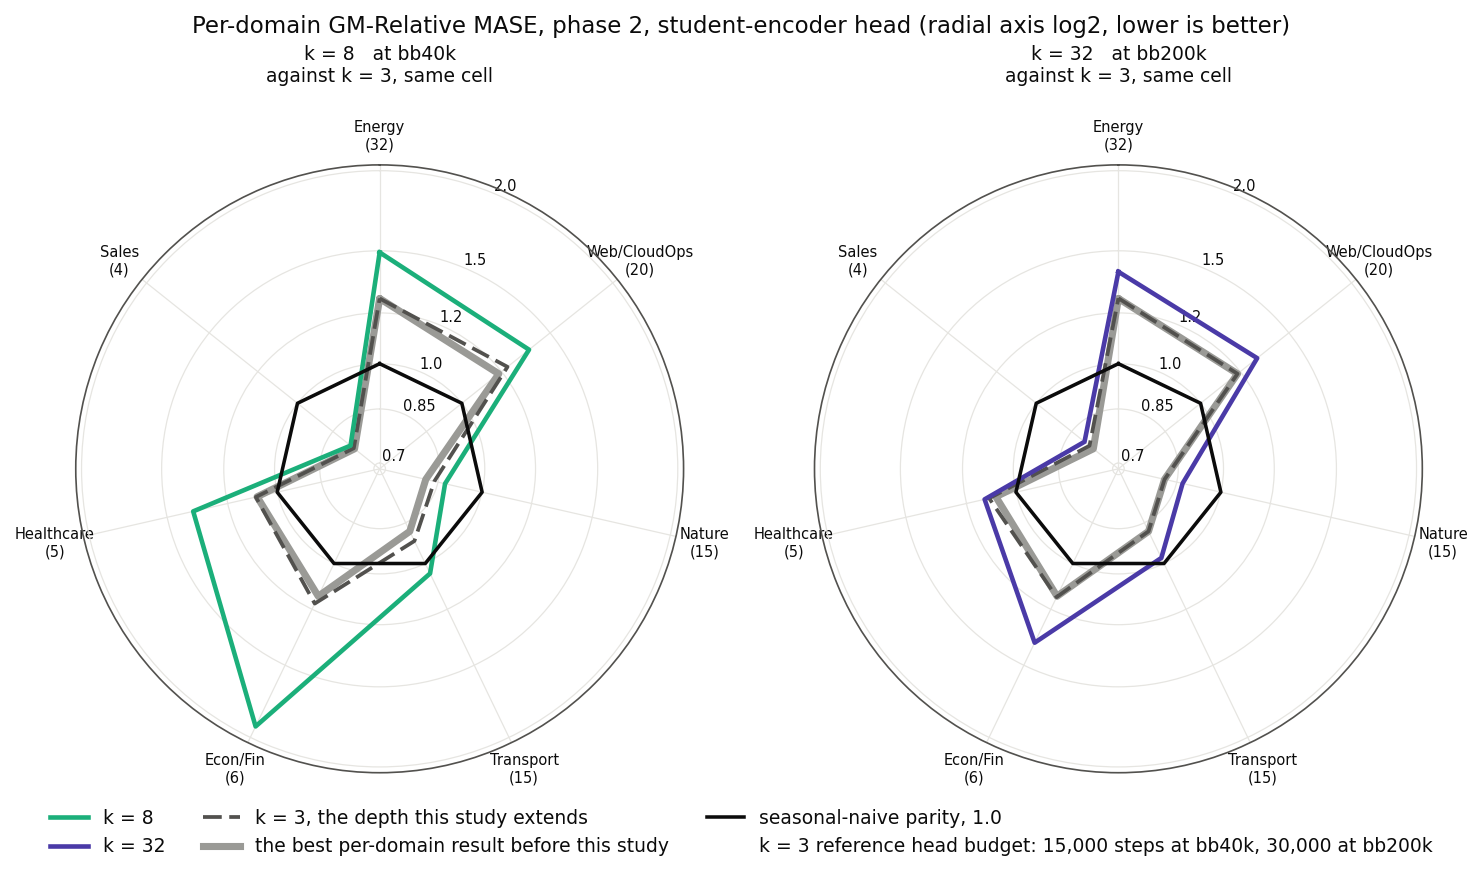
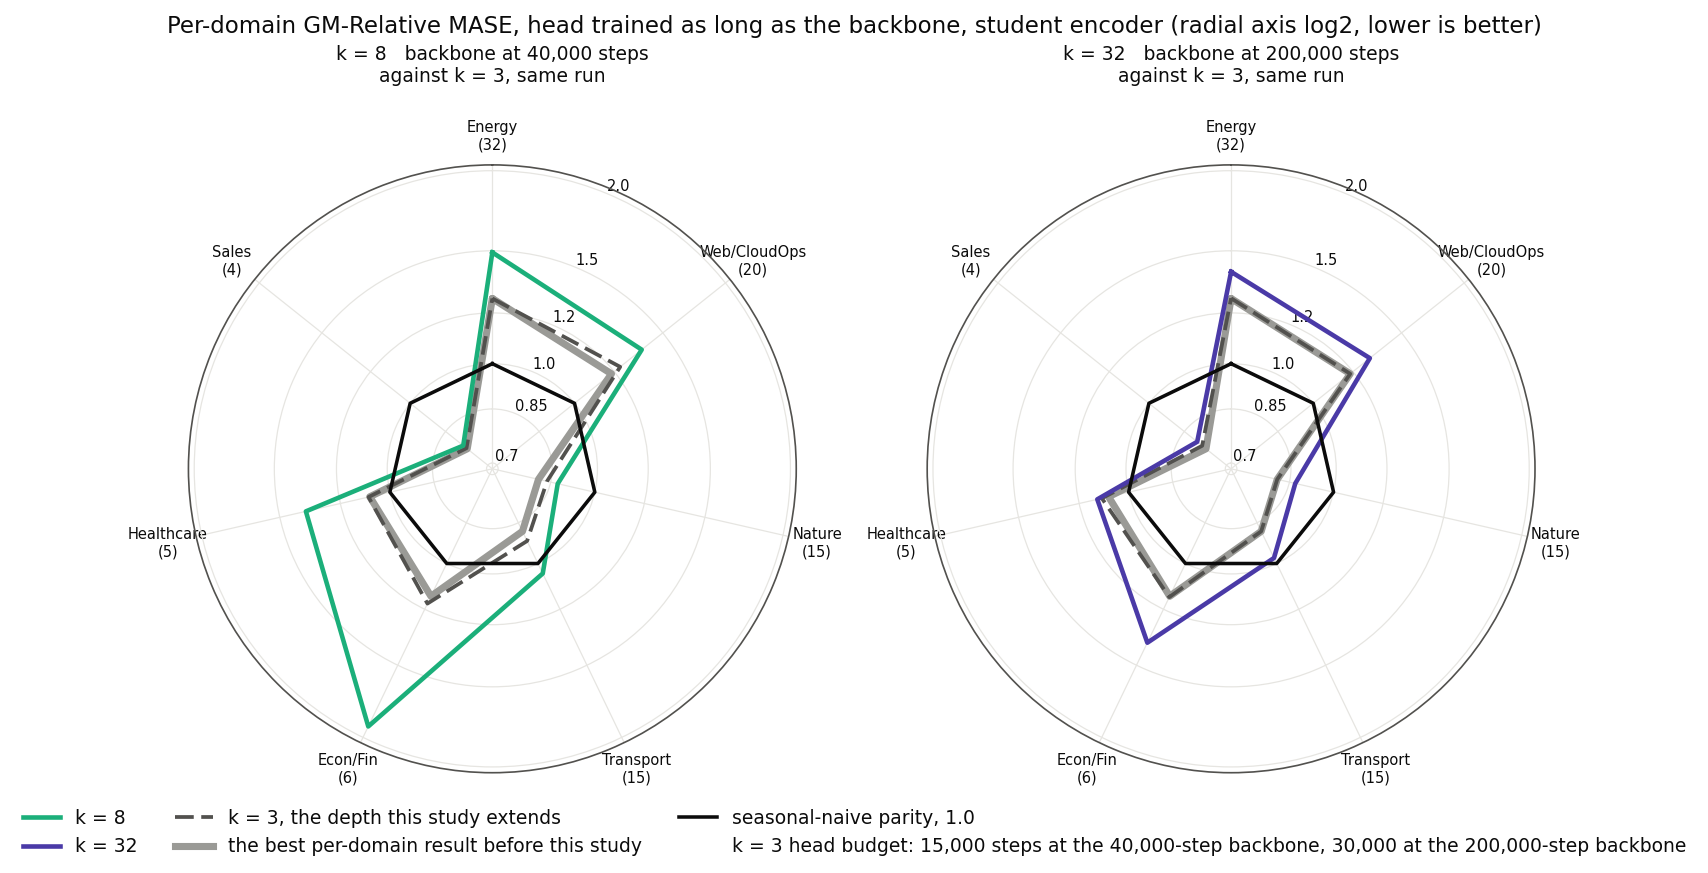
report(#401): the radar says the fact, so no caption translates it
The `Terms` section went, and two captions took its place: they told a reader
that "phase 1" in the figure means the 30,000-step head, and that `bb40k` in
the figure means the 40,000-step backbone. A caption that translates a figure
is the same defect in a smaller box.

The radar titles carry the fact now. A panel reads "k = 8   backbone at 40,000
steps" and the figure reads "30,000-step head" or "head trained as long as the
backbone". The legend drops "ema30k schedule" for "faster EMA ramp", and the
head-budget note names the stops in steps.

The two captions now say what the panels hold, which is the one thing the
titles cannot: the best backbone stop of each depth.

`bb40k` and `bb200k` survive in three lines, all of them file names under
`results/`, where they are the path and not the prose.

754 tests pass and the CI gate exits 0.

Claude-Session: https://claude.ai/code/session_017ZyjWRedGjUN9qyu7EpDpU

diff --git a/reports/2026-08-15_rollout_depth_k16_8_32/scripts/plot_domain_radar.py b/reports/2026-08-15_rollout_depth_k16_8_32/scripts/plot_domain_radar.py
@@ -53,8 +53,8 @@ import depth_colours as D                                 # noqa: E402
 plt.rcParams.update(D.rc())
 
 CELL = "A4"
-REF_HEAD_NOTE = ("k = 3 reference head budget: 15,000 steps at bb40k, "
-                 "30,000 at bb200k")
+REF_HEAD_NOTE = ("k = 3 head budget: 15,000 steps at the 40,000-step "
+                 "backbone, 30,000 at the 200,000-step backbone")
 HEAD = "student"
 
 
@@ -269,9 +269,9 @@ def main(argv=None):
                     [math.log2(mine[d]) for d in domains if d in mine],
                     color=D.colour(k), marker="o", ms=7, lw=0, zorder=4)
 
-        sched = "" if variant == "base" else f", {variant} schedule"
-        ax.set_title(f"{D.label(k)}   at bb{steps_label(stop)}{sched}\n"
-                     f"against k = 3, same cell", fontsize=9, pad=18)
+        sched = "" if variant == "base" else ", faster EMA ramp"
+        ax.set_title(f"{D.label(k)}   backbone at {stop:,} steps{sched}\n"
+                     f"against k = 3, same run", fontsize=9, pad=18)
 
     for idx in range(len(panels), nrow * ncol):
         axes[idx // ncol][idx % ncol].axis("off")
@@ -281,7 +281,7 @@ def main(argv=None):
     handles = [Line2D([], [], color=D.colour(k), lw=2.2,
                       linestyle=(D.STYLE_STUDY if v == "base" else (0, (4, 1.6))),
                       label=D.label(k) if v == "base"
-                      else f"{D.label(k)}, {v} schedule")
+                      else f"{D.label(k)}, faster EMA ramp")
                for k, _, v, _ in panels]
     handles += [
         Line2D([], [], color=D.REF_K3_INK, lw=1.8, linestyle=D.STYLE_K3,
@@ -302,8 +302,10 @@ def main(argv=None):
                           label=REF_HEAD_NOTE))
     fig.legend(handles=handles, loc="lower center",
                ncol=min(3, len(handles)), frameon=False, fontsize=9)
-    fig.suptitle(f"Per-domain GM-Relative MASE, phase {a.phase}, "
-                 f"{HEAD}-encoder head (radial axis log2, lower is better)",
+    head_note = ("30,000-step head" if a.phase == 1
+                 else "head trained as long as the backbone")
+    fig.suptitle(f"Per-domain GM-Relative MASE, {head_note}, "
+                 f"{HEAD} encoder (radial axis log2, lower is better)",
                  fontsize=11)
     Path(a.out).parent.mkdir(parents=True, exist_ok=True)
     fig.tight_layout(rect=(0, 0.075, 1, 0.95), h_pad=4.5)

diff --git a/reports/2026-08-15_rollout_depth_k16_8_32/results/mean/arm_compare.md b/reports/2026-08-15_rollout_depth_k16_8_32/results/mean/arm_compare.md
@@ -9,9 +9,9 @@
 | 1 | k = 32 | base | 40,000 | 30,000 | 7.9575 | 1.2082 | -6.7493 | mean |
 | 1 | k = 32 | ema30k | 40,000 | 30,000 | - | 1.2385 | - | - |
 | 1 | k = 32 | base | 100,000 | 30,000 | 1.7939 | 1.1803 | -0.6136 | mean |
+| 1 | k = 32 | base | 200,000 | 30,000 | - | 1.1576 | - | - |
 | 1 | k = 32 | base | 200,000 | 30,000 | - | 1.1676 | - | - |
 | 1 | k = 32 | base | 200,000 | 30,000 | - | 1.1637 | - | - |
-| 1 | k = 32 | base | 200,000 | 30,000 | - | 1.1576 | - | - |
 | 1 | k = 0 | parent | 100,000 | 30,000 | - | 1.1945 | - | - |
 | 2 | k = 8 | base | 40,000 | 40,000 | - | 1.2543 | - | - |
 | 2 | k = 8 | base | 100,000 | 100,000 | - | 1.3270 | - | - |

diff --git a/reports/2026-08-15_rollout_depth_k16_8_32/rollout_depth_k16_8_32.md b/reports/2026-08-15_rollout_depth_k16_8_32/rollout_depth_k16_8_32.md
@@ -29,13 +29,11 @@ Only the sum reduction ran k = 16.
 
 ![Per-domain GM-Relative MASE, 30,000-step head](plots/mean/domain_radar_phase1.png)
 
-*The 30,000-step head ("phase 1" in the figure). `bb40k` in the figure is
-the backbone stopped at 40,000 steps.*
+*The best backbone stop of each depth, and the same run with a faster EMA ramp.*
 
 ![Per-domain GM-Relative MASE, head steps equal to the backbone steps](plots/mean/domain_radar_phase2.png)
 
-*The head trained as long as the backbone ("phase 2" in the figure), at the
-best stop of each depth.*
+*The best backbone stop of each depth.*
 
 ## The reduction
 
